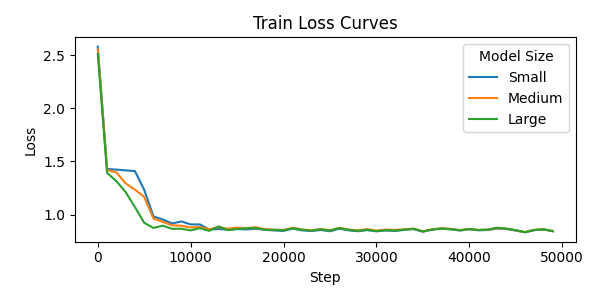
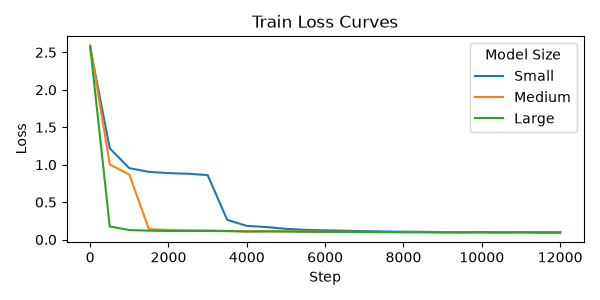
Regenerate result plots, add 2026 update to README
All sizes now reach 90-99% exact score within 12k steps (was 50k).

diff --git a/README.md b/README.md
@@ -45,3 +45,13 @@ We use the GPT model from nanoGPT. The model is trained to predict the next toke
 ![Training Loss](./assets/loss.png)
 ![Approximate Score](./assets/score_approx.png)
 ![Exact Score](./assets/score_exact.png)
+
+## Update (2026)
+
+The results above were regenerated with PyTorch 2.13 (managed with [uv](https://docs.astral.sh/uv/)), two bug fixes and one upgrade:
+
+- Fixed a regression that dropped the leading-zero padding from generated equations, capping the exact score at ~50%.
+- Fixed the loss mask, which silently trained on the left-hand side of equations in about half of the batches.
+- The transformer weights now train with [Muon](https://kellerjordan.github.io/posts/muon/) (`torch.optim.Muon`), with per-iteration cosine annealing.
+
+All three models now learn exact addition within 12k steps instead of 50k, reaching 90% / 98% / 99% exact score for small / medium / large.
